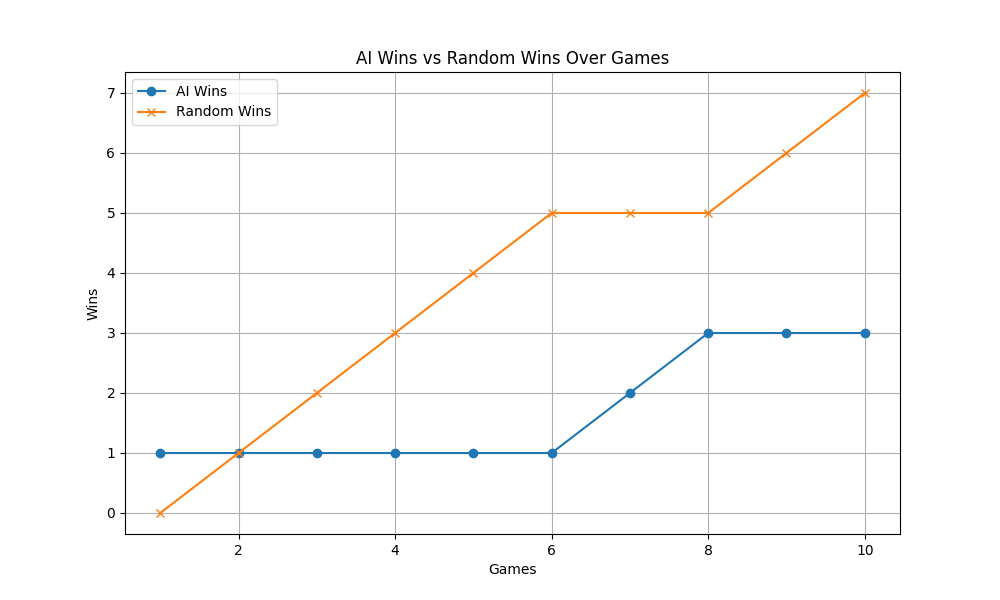
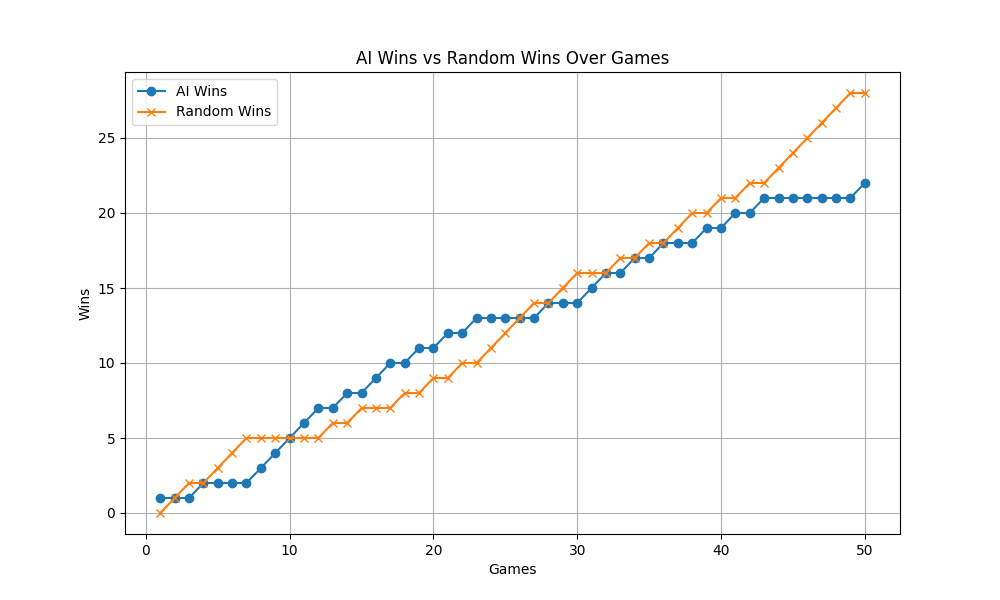
tested some models

diff --git a/playground.py b/playground.py
@@ -54,12 +54,12 @@ def ai_vs_ai_cnn():
     create_ai_match(network_player1, network_player2, isBothCNN=True)
 
 def ai_mcts_vs_random():
-    network = PolicyNetwork("./models/VN-R3-C64-2.pt")
+    network = PolicyNetwork("./models/10-sims/VN-R3-C64-2-GNO-GO-9-10-sims.pt")
     create_ai_match(network, None, isMCTSvsRandom=True, games=5)
 
 def ai_cnn_vs_random():
-    network = PolicyNetwork("./models/VN-R3-C64-2.pt")
-    create_ai_match(network, None, isCNNvsRandom=True, games=10)
+    network = PolicyNetwork("./models/50-sims/VN-R3-C64-2-GNO-GO-4-50-sims.pt")
+    create_ai_match(network, None, isCNNvsRandom=True, games=50)
 
 def create_ai_match(network_player1: Type[PolicyNetwork], network_player2: Type[PolicyNetwork],
                     isHumanvsAi=False, isBothCNN=False, isBothMCTS=False,

diff --git a/AivsGNUgo.py b/AivsGNUgo.py
@@ -26,7 +26,7 @@ coor_map = {
 def run_gnugo():
     # Start GNU Go subprocess
     gnugo_process = subprocess.Popen(
-        ['gnugo', '--mode', 'gtp', '--chinese-rules', '--boardsize', '9', '--level', '0', '--komi', '7.5'],
+        ['gnugo', '--mode', 'gtp', '--chinese-rules', '--boardsize', '9', '--level', '10', '--komi', '5.5'],
         stdin=subprocess.PIPE,
         stdout=subprocess.PIPE,
         stderr=subprocess.PIPE,
